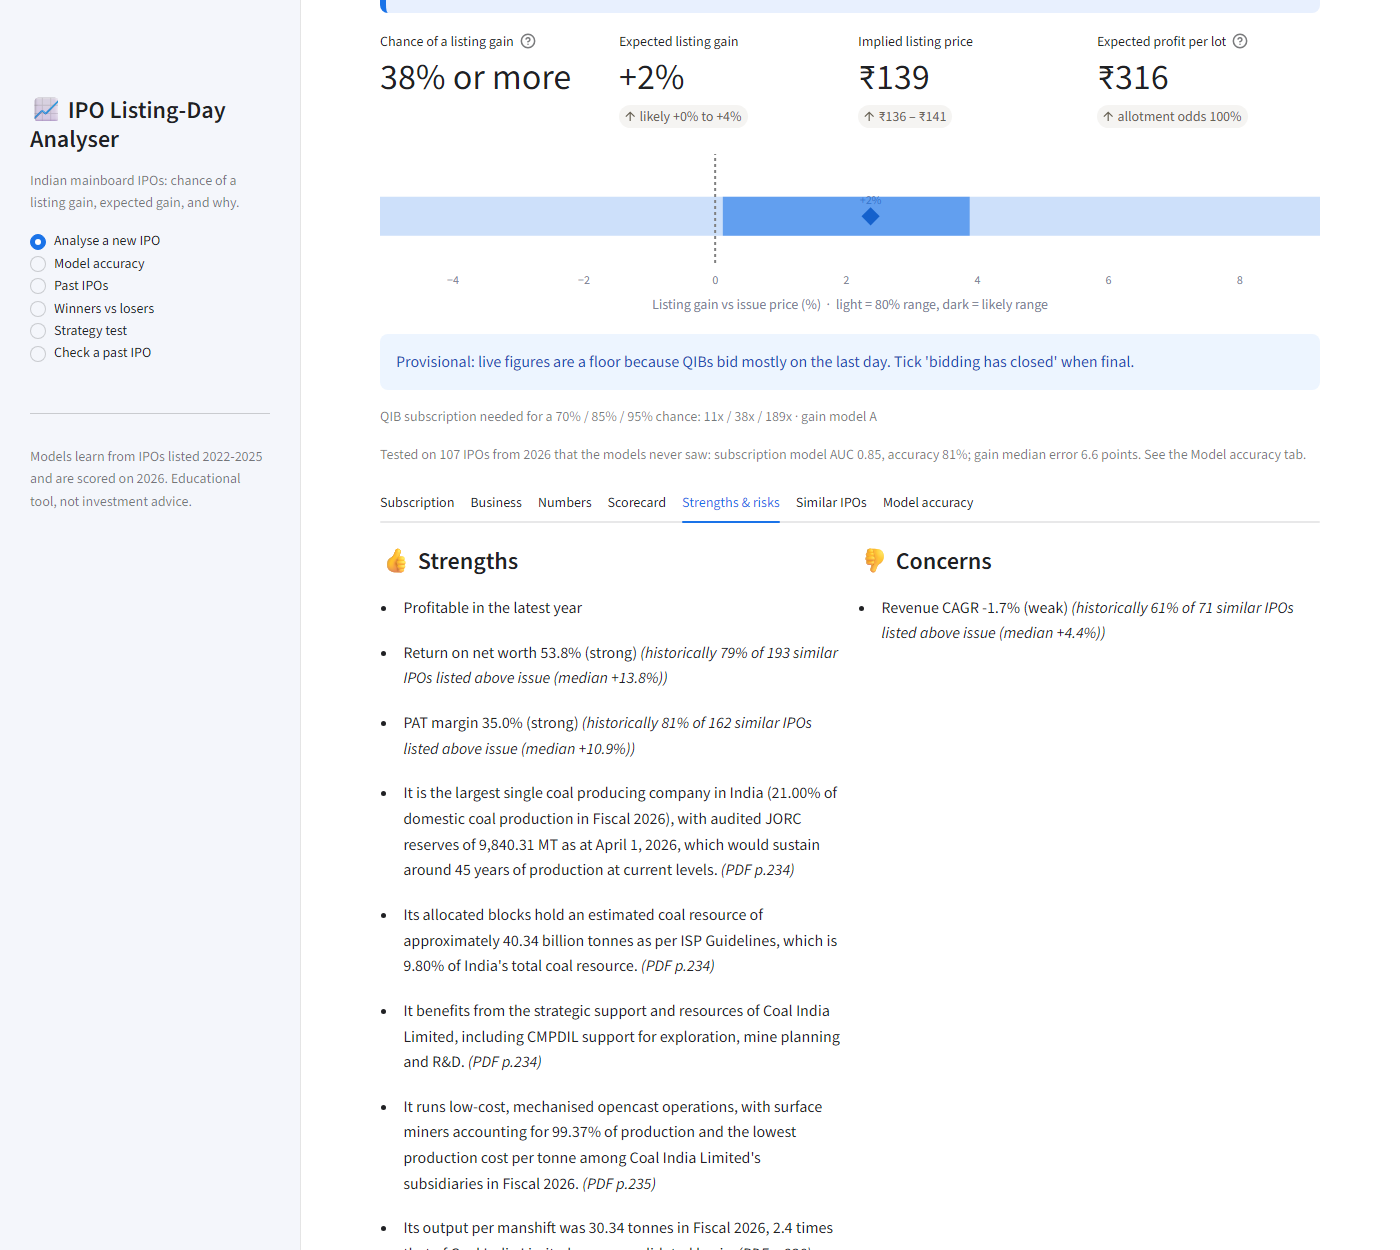
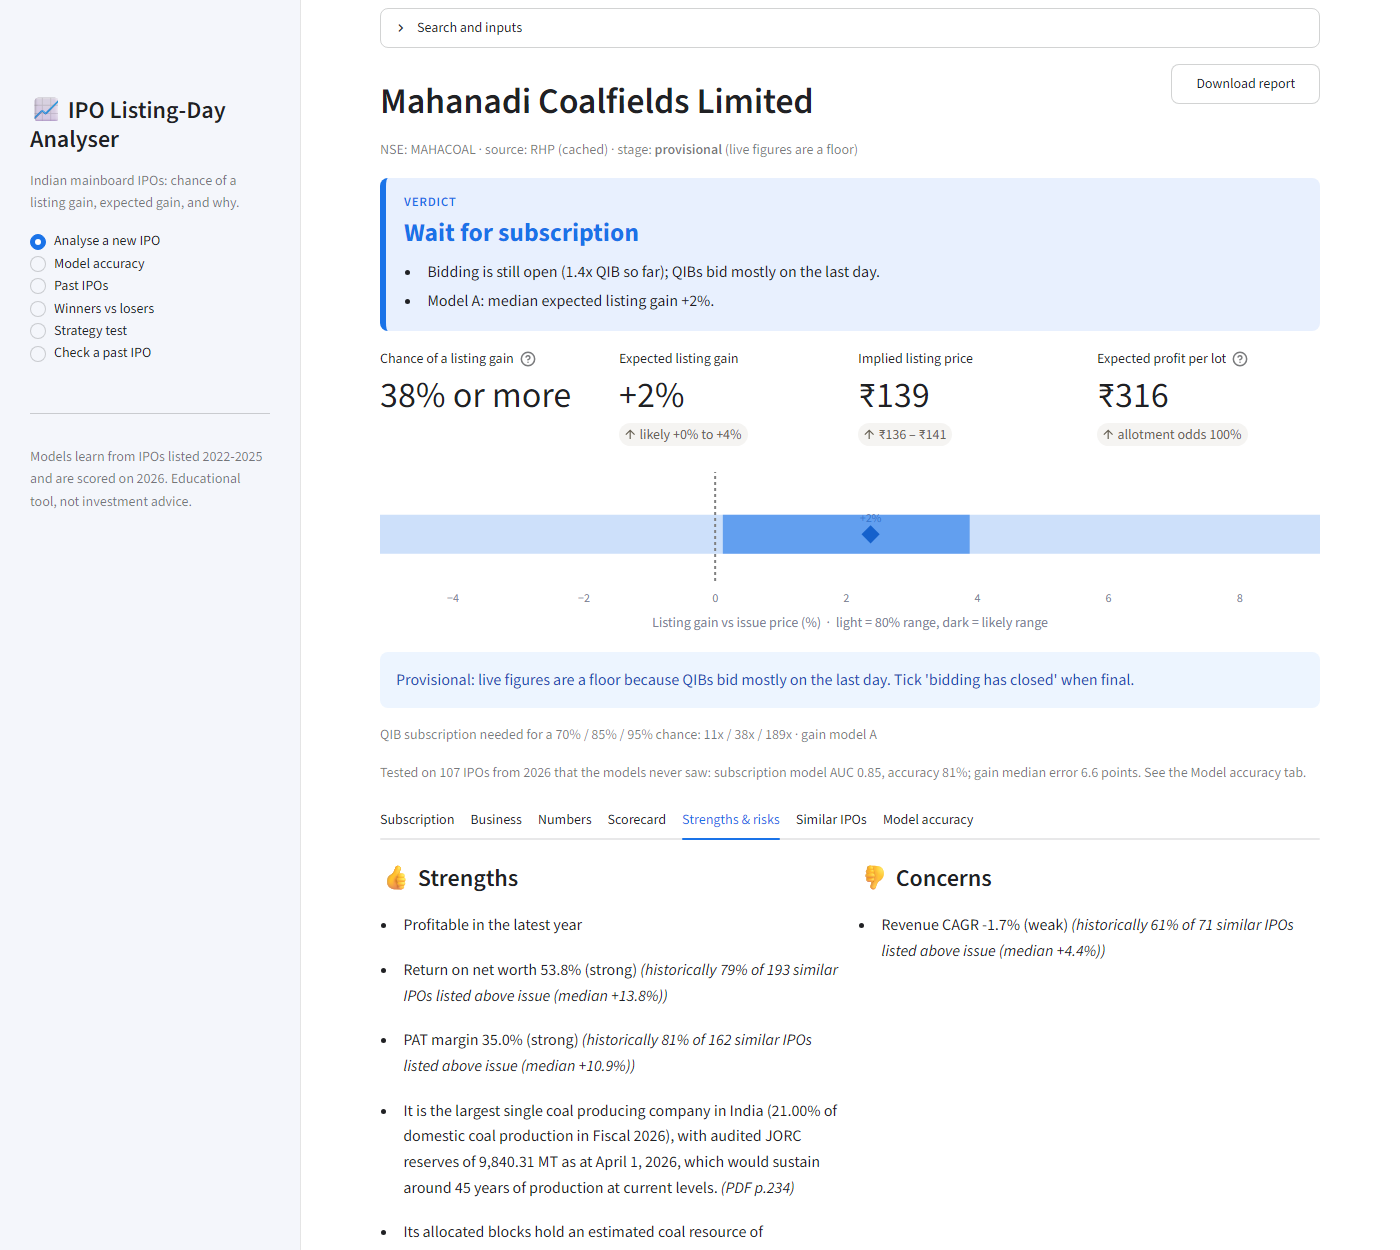
Fold search form away after analysis so the report is on top

diff --git a/app.py b/app.py
@@ -97,54 +97,59 @@ def page_new() -> None:
     d, models, bt = report_models(hp.stat().st_mtime)
     hist = hist_frame(hp.stat().st_mtime)
 
-    q = st.text_input("IPO name or symbol", placeholder="e.g. Mahanadi Coalfields")
-    if st.button("Find", type="primary") and q.strip():
-        try:
-            st.session_state["matches"] = live.find_issue(q)
-            st.session_state.pop("analysis", None)
-        except Exception as exc:
-            st.error(f"Could not reach NSE: {exc}")
-    matches = st.session_state.get("matches", [])
-    if not matches:
-        return
-    m = st.radio("Which one?", matches, format_func=lambda x: f"{x.company} ({x.symbol}) · {x.status} · {x.segment}")
-    if m.segment == "SME":
-        st.warning("This is an SME issue. The history here is mainboard only, so the numbers are not reliable for it.")
-
-    c1, c2 = st.columns(2)
-    up = c1.file_uploader("Upload the RHP (PDF), optional", type="pdf",
-                          help="Use it when NSE is blocked or has no RHP link. It is saved as rhp/<SYMBOL>.pdf and replaces cached extractions if it differs.")
-    with c2:
-        st.markdown("**Subscription (overrides NSE's live figures)**")
-        s1, s2 = st.columns(2)
-        man = {"sub_qib_x": s1.number_input("QIB (x)", min_value=0.0, value=0.0, step=0.1),
-               "sub_nii_x": s2.number_input("NII (x)", min_value=0.0, value=0.0, step=0.1),
-               "sub_retail_x": s1.number_input("Retail (x)", min_value=0.0, value=0.0, step=0.1),
-               "sub_total_x": s2.number_input("Total (x)", min_value=0.0, value=0.0, step=0.1)}
-        closed = st.checkbox("Bidding has closed (these are final figures)")
-    with_qual = st.checkbox("Include business, risks and litigation (a second Claude pass, uses more of your plan)", value=True)
-
-    if st.button("Analyse"):
-        pdf = None
-        if up is not None:
-            import tempfile
-            pdf = Path(tempfile.mkdtemp()) / f"{m.symbol}.pdf"
-            pdf.write_bytes(up.getvalue())
-        with st.status("Working…", expanded=True) as status:
+    with st.expander("Search and inputs", expanded=st.session_state.get("analysis") is None):
+        q = st.text_input("IPO name or symbol", placeholder="e.g. Mahanadi Coalfields")
+        if st.button("Find", type="primary") and q.strip():
             try:
-                a = live.analyse_issue(m, pdf=pdf, hist=hist, progress=status.write)
-                qual = None
-                if with_qual and a.record is not None:
-                    status.write("Reading business, risks and litigation")
-                    try:
-                        qual = qualitative.extract_qual(m.symbol, pdf=extract_rhp.RHP_DIR / f"{m.symbol}.pdf", client=extract_rhp.make_client())
-                    except Exception as exc:
-                        a.notes.append(f"Business and risk pass failed: {exc}")
-                st.session_state["analysis"], st.session_state["qual"] = a, qual
-                status.update(label="Done", state="complete")
+                st.session_state["matches"] = live.find_issue(q)
+                st.session_state.pop("analysis", None)
             except Exception as exc:
-                status.update(label="Failed", state="error")
-                st.error(str(exc))
+                st.error(f"Could not reach NSE: {exc}")
+        matches = st.session_state.get("matches", [])
+        if not matches:
+            return
+        m = st.radio("Which one?", matches, format_func=lambda x: f"{x.company} ({x.symbol}) · {x.status} · {x.segment}")
+        if m.segment == "SME":
+            st.warning("This is an SME issue. The history here is mainboard only, so the numbers are not reliable for it.")
+
+        c1, c2 = st.columns(2)
+        up = c1.file_uploader("Upload the RHP (PDF), optional", type="pdf",
+                              help="Use it when NSE is blocked or has no RHP link. It is saved as rhp/<SYMBOL>.pdf and replaces cached extractions if it differs.")
+        with c2:
+            st.markdown("**Subscription (overrides NSE's live figures)**")
+            s1, s2 = st.columns(2)
+            man = {"sub_qib_x": s1.number_input("QIB (x)", min_value=0.0, value=0.0, step=0.1),
+                   "sub_nii_x": s2.number_input("NII (x)", min_value=0.0, value=0.0, step=0.1),
+                   "sub_retail_x": s1.number_input("Retail (x)", min_value=0.0, value=0.0, step=0.1),
+                   "sub_total_x": s2.number_input("Total (x)", min_value=0.0, value=0.0, step=0.1)}
+            closed = st.checkbox("Bidding has closed (these are final figures)")
+        with_qual = st.checkbox("Include business, risks and litigation (a second Claude pass, uses more of your plan)", value=True)
+
+        ran = False
+        if st.button("Analyse"):
+            pdf = None
+            if up is not None:
+                import tempfile
+                pdf = Path(tempfile.mkdtemp()) / f"{m.symbol}.pdf"
+                pdf.write_bytes(up.getvalue())
+            with st.status("Working…", expanded=True) as status:
+                try:
+                    a = live.analyse_issue(m, pdf=pdf, hist=hist, progress=status.write)
+                    qual = None
+                    if with_qual and a.record is not None:
+                        status.write("Reading business, risks and litigation")
+                        try:
+                            qual = qualitative.extract_qual(m.symbol, pdf=extract_rhp.RHP_DIR / f"{m.symbol}.pdf", client=extract_rhp.make_client())
+                        except Exception as exc:
+                            a.notes.append(f"Business and risk pass failed: {exc}")
+                    st.session_state["analysis"], st.session_state["qual"] = a, qual
+                    status.update(label="Done", state="complete")
+                    ran = True
+                except Exception as exc:
+                    status.update(label="Failed", state="error")
+                    st.error(str(exc))
+        if ran:
+            st.rerun()                      # redraw with the search form folded away, report on top
     a = st.session_state.get("analysis")
     if a is None or a.match.symbol != m.symbol:
         return
